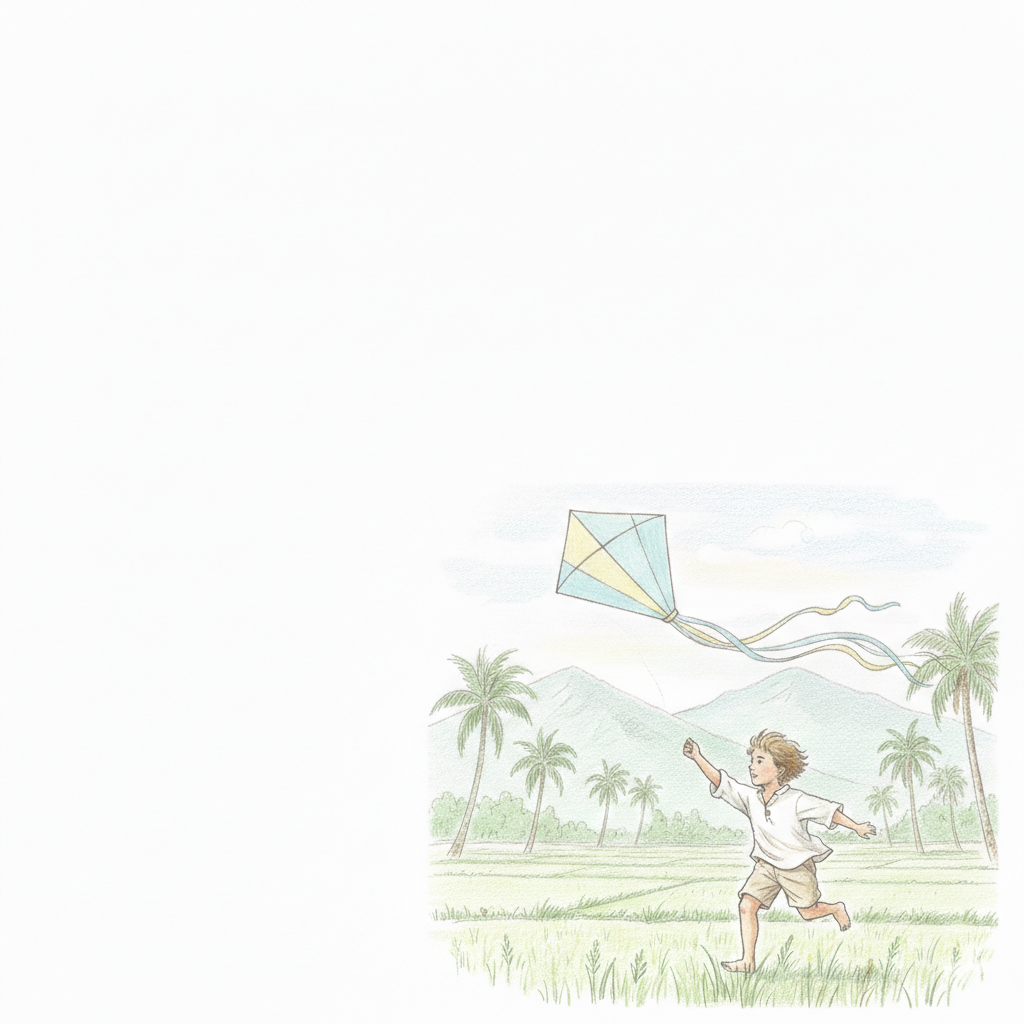
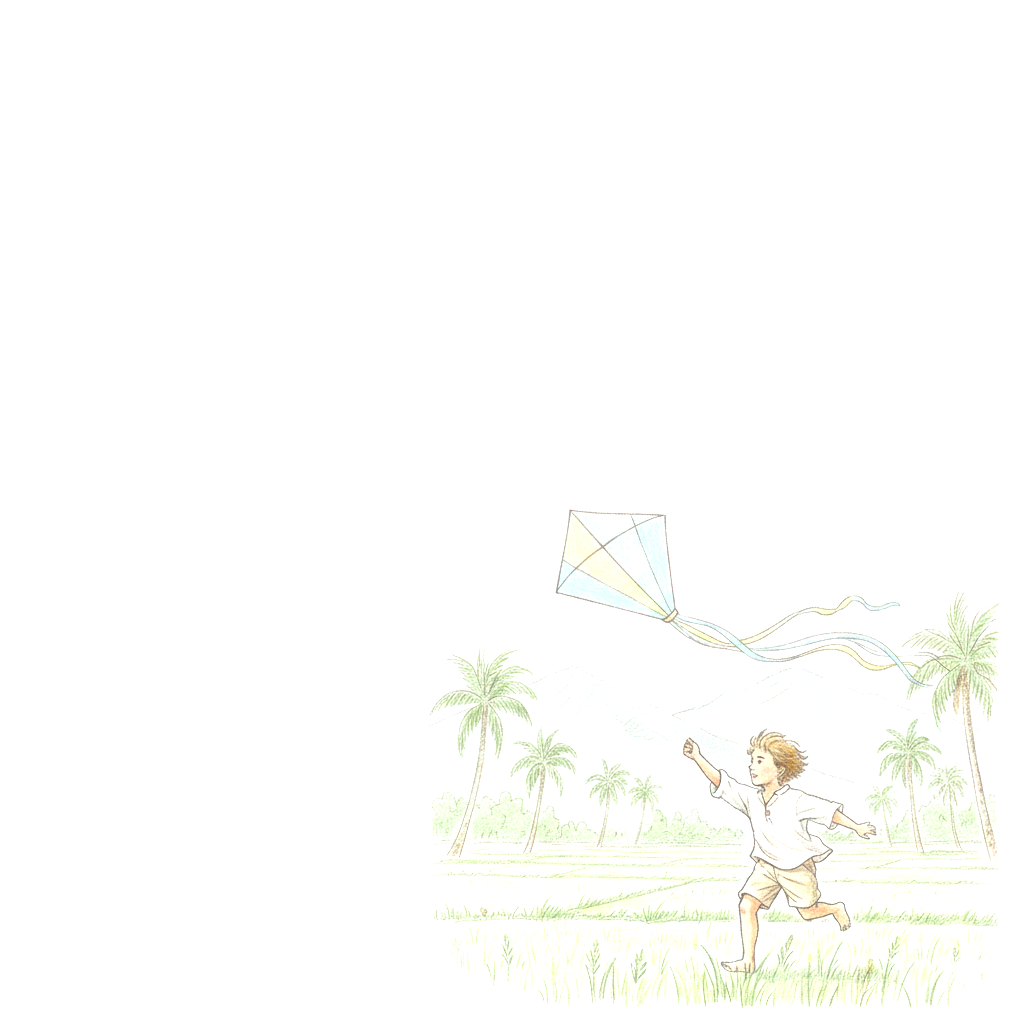
Update About page background and remove third photo strip
Change background to solid white and remove nature pattern overlay. Remove the third photo strip section as the image is now used in the footer background.

🤖 Generated with [Claude Code](https://claude.com/claude-code)

Changed region(s): [[0.4062, 0.5, 1.0, 1.0]]

diff --git a/src/app/about/page.tsx b/src/app/about/page.tsx
@@ -34,7 +34,7 @@ export default function AboutPage() {
   }, [])
 
   return (
-    <div className="min-h-screen bg-neutral-50">
+    <div className="min-h-scree">
       <Header currentPage="about" />
 
       {/* Background Pattern */}
@@ -42,13 +42,10 @@ export default function AboutPage() {
         <div
           className="absolute inset-0"
           style={{
-            backgroundImage: 'url(/about/nature-birds-pattern.png)',
-            backgroundSize: '1000px auto',
-            backgroundPosition: 'top left',
-            backgroundRepeat: 'repeat'
+            backgroundColor: 'white',
           }}
         />
-        <div className="absolute inset-0 bg-white/40" />
+        <div/>
       </div>
 
       {/* Hero Section */}
@@ -185,21 +182,6 @@ export default function AboutPage() {
           </div>
         </div>
       </section>
-
-      {/* Photo Strip 3 */}
-      <div
-        className="relative z-10 w-full overflow-hidden"
-        style={{
-          backgroundImage: 'url(/about/3.jpg)',
-          // Size options: 'cover' (fills area, may crop), 'contain' (shows full image), '100% 400px' (width height), etc.
-          backgroundSize: '100%',
-          // Position options: 'center', 'top', 'bottom', 'left', 'right', '50% 30%', etc.
-          backgroundPosition: '50% 70%',
-          // Height options: '200px', '300px', '400px', '500px', etc.
-          height: '400px'
-        }}
-      >
-      </div>
       <Footer />
     </div>
   )
